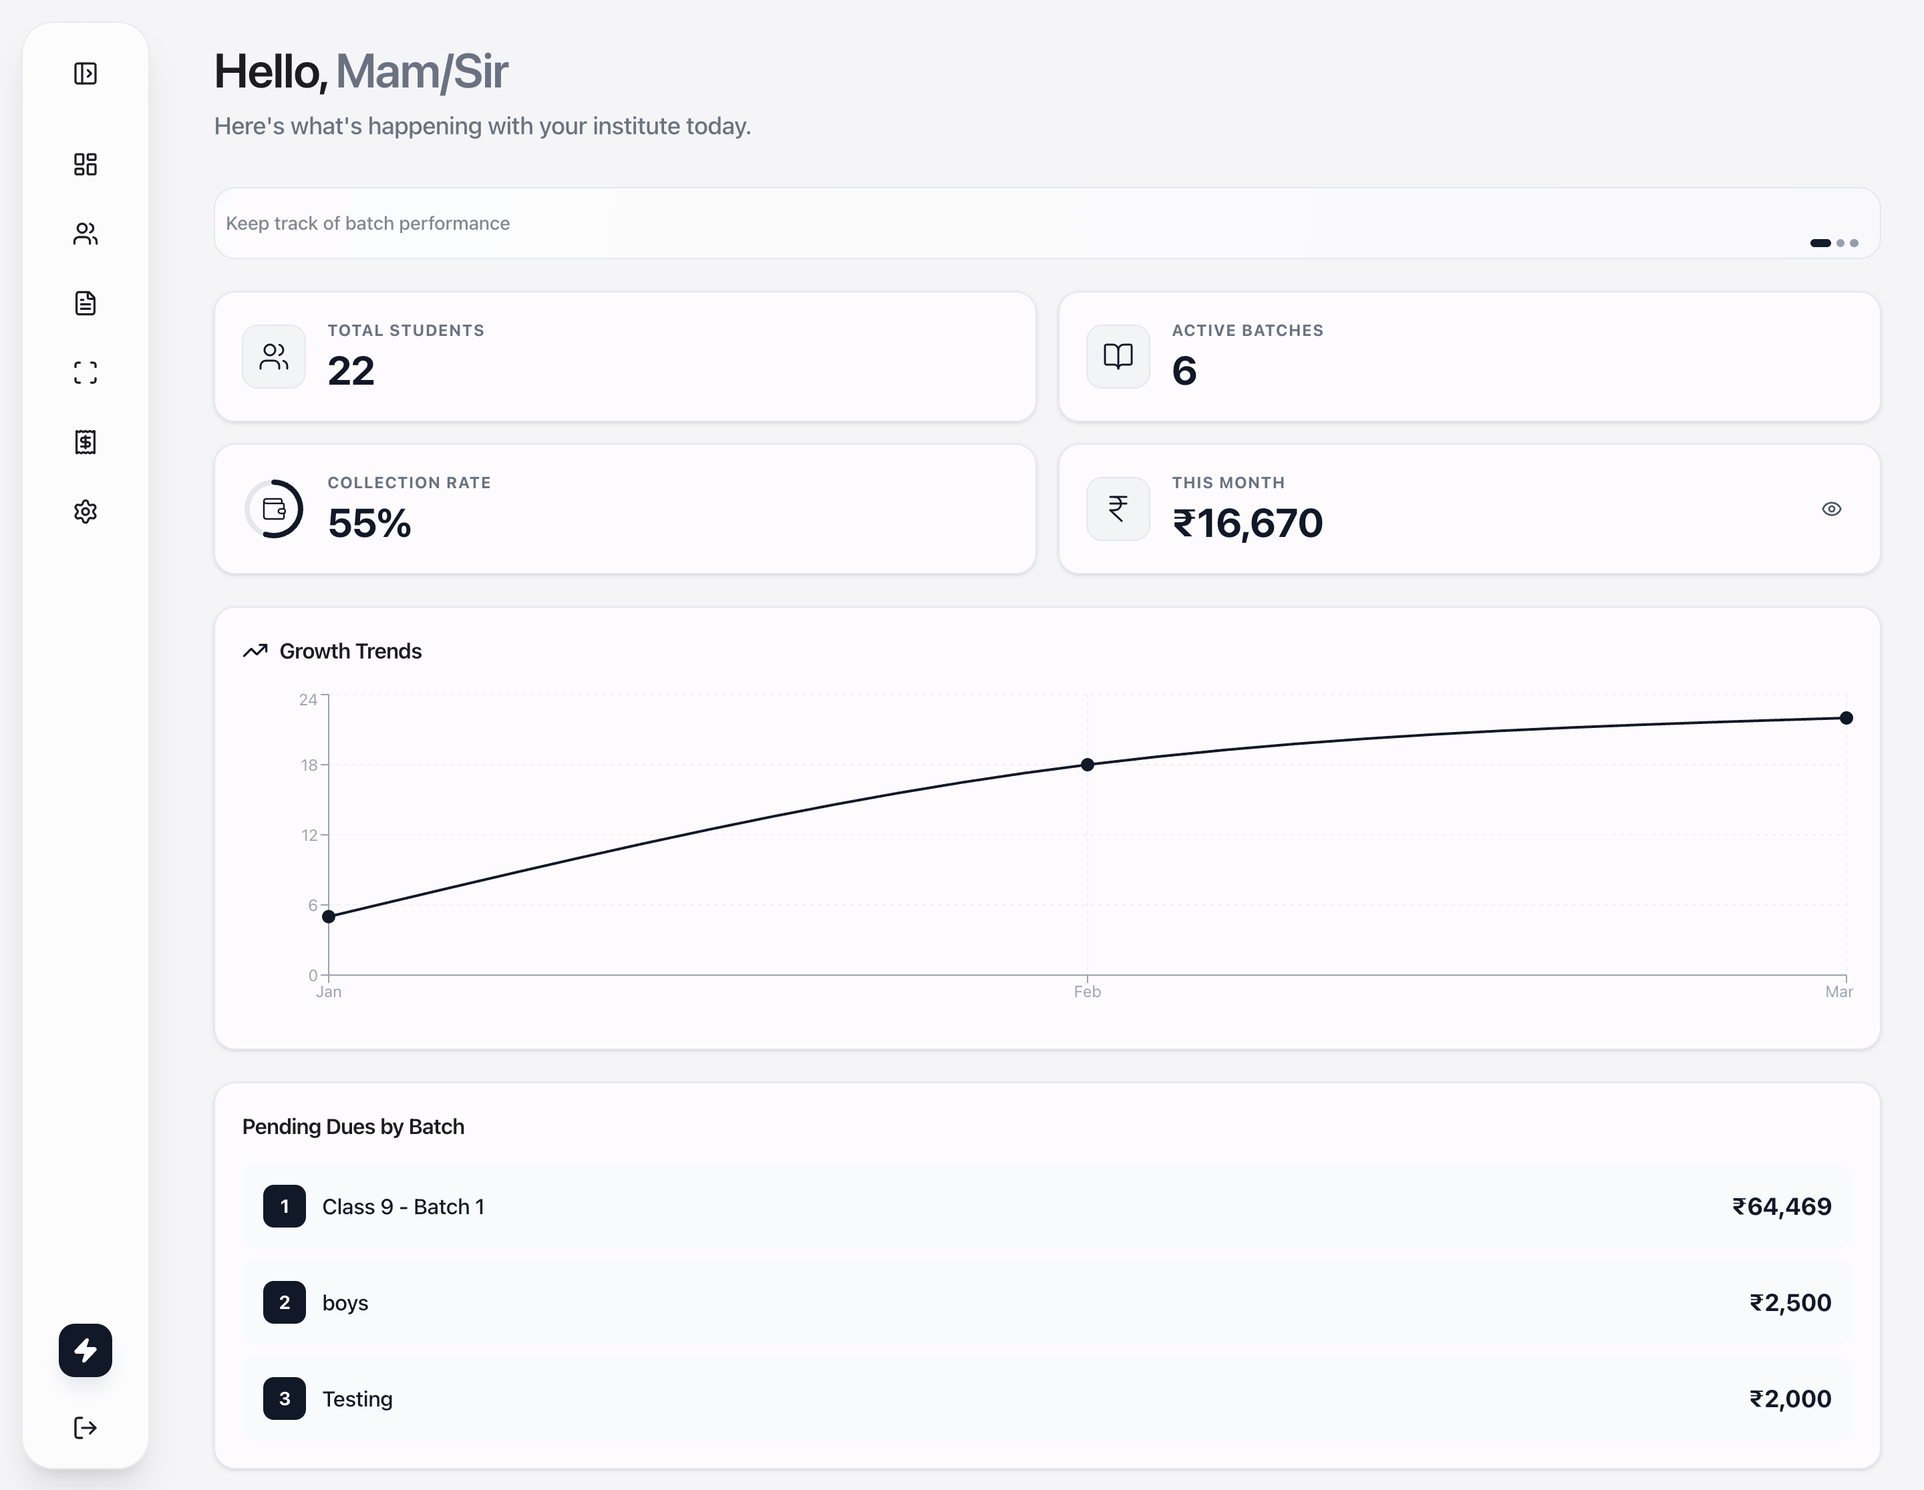
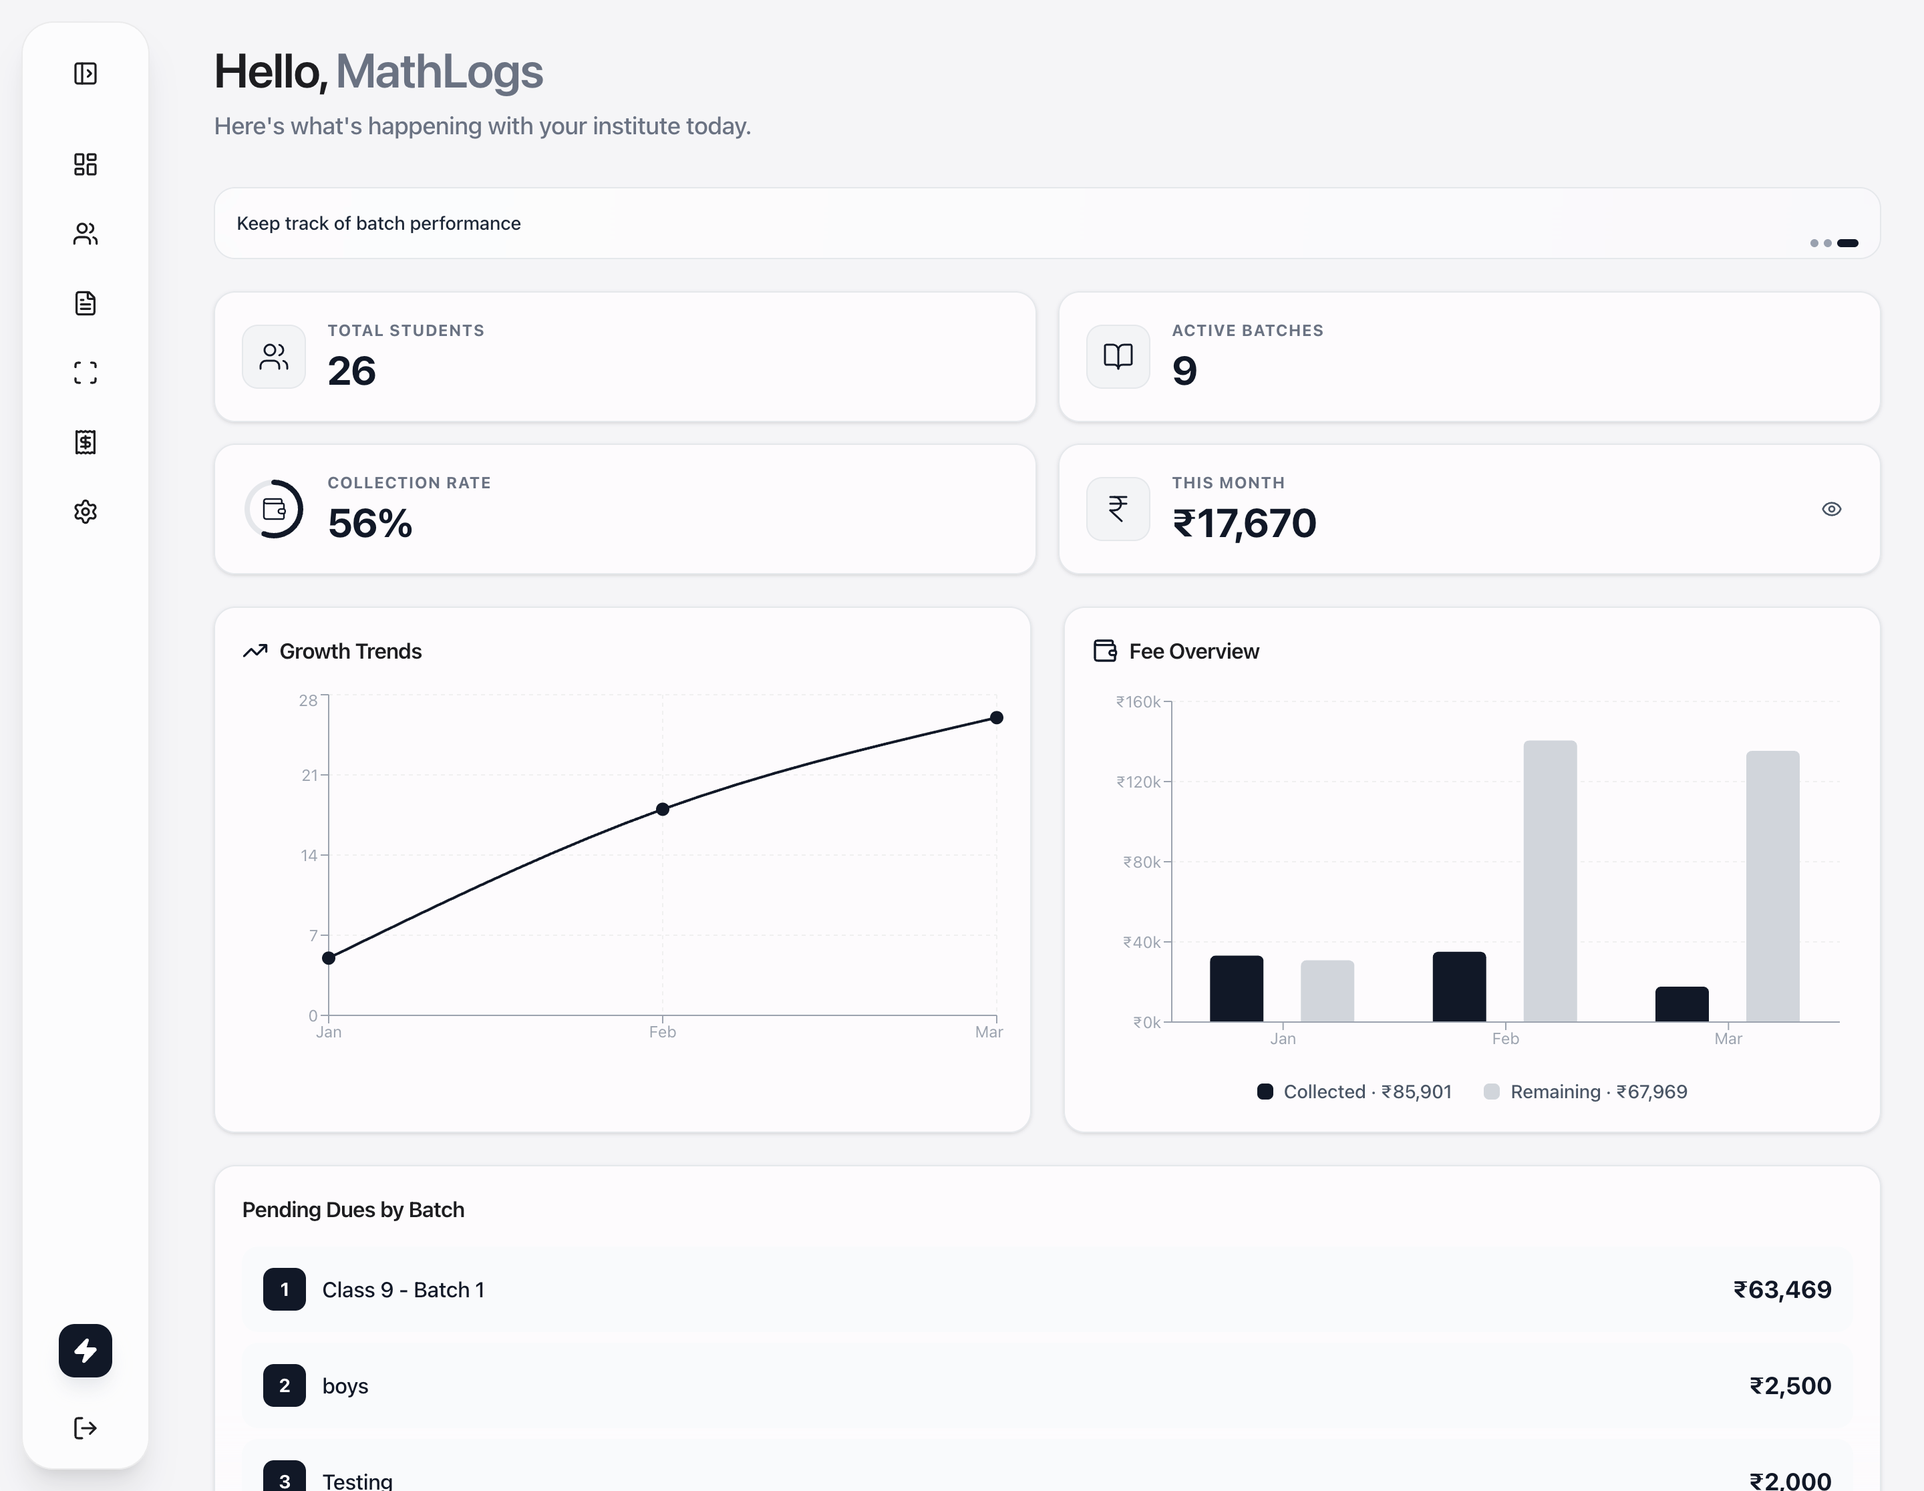
fix: correct modal z-index causing overlap with mobile top bar

diff --git a/client/src/pages/BatchDetails.tsx b/client/src/pages/BatchDetails.tsx
@@ -842,12 +842,12 @@ export default function BatchDetails() {
                     </div>
                 </div>
 
-                <div className="hidden md:block overflow-x-auto overflow-y-hidden rounded-b-[24px] w-full max-w-full">
-                    <table className="w-full text-left border-collapse">
-                        <thead className={cn("bg-app-surface/50 text-app-text-secondary uppercase font-bold tracking-wider backdrop-blur-md", getTextSizeClass('header'))}>
+                <div className="hidden md:block overflow-auto rounded-b-[24px] w-full max-w-full custom-scrollbar" style={{ maxHeight: 'calc(100vh - 220px)' }}>
+                    <table className="w-full text-left border-collapse relative">
+                        <thead className={cn("bg-app-surface text-app-text-secondary uppercase font-bold tracking-wider sticky top-0 z-20 shadow-sm outline outline-1 outline-app-border", getTextSizeClass('header'))}>
                             <tr>
                                 <th
-                                    className={cn("border-b border-app-border cursor-pointer select-none hover:bg-app-surface-hover transition-colors group", getCellPadding())}
+                                    className={cn("bg-app-surface cursor-pointer select-none hover:bg-app-surface-hover transition-colors group", getCellPadding())}
                                     style={{ minWidth: '100px', whiteSpace: 'nowrap' }}
                                     onClick={() => {
                                         setSortConfig(current => {
@@ -866,14 +866,14 @@ export default function BatchDetails() {
                                         )}
                                     </div>
                                 </th>
-                                <th className={cn("border-b border-app-border", getCellPadding())} style={{ minWidth: '180px', whiteSpace: 'nowrap' }}>Student Name</th>
-                                <th className={cn("border-b border-app-border", getCellPadding())} style={{ minWidth: '180px', whiteSpace: 'nowrap' }}>School</th>
-                                <th className={cn("border-b border-app-border", getCellPadding())} style={{ minWidth: '180px', whiteSpace: 'nowrap' }}>Parent Name</th>
-                                <th className={cn("border-b border-app-border", getCellPadding())} style={{ minWidth: '200px', whiteSpace: 'nowrap' }}>Contact</th>
-                                <th className={cn("border-b border-app-border text-center", getCellPadding())} style={{ minWidth: '80px', whiteSpace: 'nowrap' }}>Tests</th>
-                                <th className={cn("border-b border-app-border text-center", getCellPadding())} style={{ minWidth: '80px', whiteSpace: 'nowrap' }}>Avg (10)</th>
+                                <th className={cn("bg-app-surface", getCellPadding())} style={{ minWidth: '180px', whiteSpace: 'nowrap' }}>Student Name</th>
+                                <th className={cn("bg-app-surface", getCellPadding())} style={{ minWidth: '180px', whiteSpace: 'nowrap' }}>School</th>
+                                <th className={cn("bg-app-surface", getCellPadding())} style={{ minWidth: '180px', whiteSpace: 'nowrap' }}>Parent Name</th>
+                                <th className={cn("bg-app-surface", getCellPadding())} style={{ minWidth: '200px', whiteSpace: 'nowrap' }}>Contact</th>
+                                <th className={cn("bg-app-surface text-center", getCellPadding())} style={{ minWidth: '80px', whiteSpace: 'nowrap' }}>Tests</th>
+                                <th className={cn("bg-app-surface text-center", getCellPadding())} style={{ minWidth: '80px', whiteSpace: 'nowrap' }}>Avg (10)</th>
                                 {batch.feeInstallments?.map(inst => (
-                                    <th key={inst.id} className={cn("border-b border-app-border text-center", getCellPadding())} style={{ minWidth: '100px', whiteSpace: 'nowrap' }}>
+                                    <th key={inst.id} className={cn("bg-app-surface text-center", getCellPadding())} style={{ minWidth: '100px', whiteSpace: 'nowrap' }}>
                                         <div className="flex flex-col items-center">
                                             <span>{inst.name}</span>
                                             <span className={cn("text-app-text-tertiary", getTextSizeClass('sub'))}>₹{inst.amount}</span>
@@ -1149,7 +1149,7 @@ export default function BatchDetails() {
             <AnimatePresence>
                 {
                     editingStudent && (
-                        <div className="fixed inset-0 z-50 flex items-center justify-center p-4">
+                        <div className="fixed inset-0 z-[100] flex items-center justify-center p-4">
                             <motion.div
                                 initial={{ opacity: 0 }}
                                 animate={{ opacity: 1 }}
@@ -1285,7 +1285,7 @@ export default function BatchDetails() {
             {/* View Marks Modal */}
             <AnimatePresence>
                 {viewMarks && (
-                    <div className="fixed inset-0 z-50 flex items-center justify-center p-4">
+                    <div className="fixed inset-0 z-[100] flex items-center justify-center p-4">
                         <motion.div
                             initial={{ opacity: 0 }}
                             animate={{ opacity: 1 }}
@@ -1364,7 +1364,7 @@ export default function BatchDetails() {
             <AnimatePresence>
                 {
                     showAddStudent && (
-                        <div className="fixed inset-0 z-50 flex items-center justify-center p-4">
+                        <div className="fixed inset-0 z-[100] flex items-center justify-center p-4">
                             <motion.div
                                 initial={{ opacity: 0 }}
                                 animate={{ opacity: 1 }}
@@ -1488,7 +1488,7 @@ export default function BatchDetails() {
             {/* Delete Student Confirmation Modal */}
             <AnimatePresence>
                 {studentToDelete && (
-                    <div className="fixed inset-0 z-50 flex items-center justify-center p-4">
+                    <div className="fixed inset-0 z-[100] flex items-center justify-center p-4">
                         <motion.div
                             initial={{ opacity: 0 }}
                             animate={{ opacity: 1 }}
@@ -1554,7 +1554,7 @@ export default function BatchDetails() {
             <AnimatePresence>
                 {
                     showEditBatch && (
-                        <div className="fixed inset-0 z-50 flex items-center justify-center p-4">
+                        <div className="fixed inset-0 z-[100] flex items-center justify-center p-4">
                             <motion.div
                                 initial={{ opacity: 0 }}
                                 animate={{ opacity: 1 }}
@@ -1623,7 +1623,7 @@ export default function BatchDetails() {
             <AnimatePresence>
                 {
                     showWhatsAppModal && (
-                        <div className="fixed inset-0 z-50 flex items-center justify-center p-4">
+                        <div className="fixed inset-0 z-[100] flex items-center justify-center p-4">
                             <motion.div
                                 initial={{ opacity: 0 }}
                                 animate={{ opacity: 1 }}
@@ -1676,7 +1676,7 @@ export default function BatchDetails() {
             {/* Manage Installments Modal */}
             <AnimatePresence>
                 {showManageInstallments && (
-                    <div className="fixed inset-0 z-50 flex items-center justify-center p-4">
+                    <div className="fixed inset-0 z-[100] flex items-center justify-center p-4">
                         <motion.div
                             initial={{ opacity: 0 }}
                             animate={{ opacity: 1 }}
@@ -1739,7 +1739,7 @@ export default function BatchDetails() {
             <AnimatePresence>
                 {
                     showAddInstallment && (
-                        <div className="fixed inset-0 z-50 flex items-center justify-center p-4">
+                        <div className="fixed inset-0 z-[100] flex items-center justify-center p-4">
                             <motion.div
                                 initial={{ opacity: 0 }}
                                 animate={{ opacity: 1 }}
@@ -1801,7 +1801,7 @@ export default function BatchDetails() {
             <AnimatePresence>
                 {
                     editingInstallment && (
-                        <div className="fixed inset-0 z-50 flex items-center justify-center p-4">
+                        <div className="fixed inset-0 z-[100] flex items-center justify-center p-4">
                             <motion.div
                                 initial={{ opacity: 0 }}
                                 animate={{ opacity: 1 }}
@@ -1860,7 +1860,7 @@ export default function BatchDetails() {
             {/* Delete Installment Confirmation Modal */}
             <AnimatePresence>
                 {installmentToDelete && (
-                    <div className="fixed inset-0 z-50 flex items-center justify-center p-4">
+                    <div className="fixed inset-0 z-[100] flex items-center justify-center p-4">
                         <motion.div
                             initial={{ opacity: 0 }}
                             animate={{ opacity: 1 }}
@@ -1910,7 +1910,7 @@ export default function BatchDetails() {
             {/* Payment Confirmation Modal (Menu Style) */}
             <AnimatePresence>
                 {paymentModal && (
-                    <div className="fixed inset-0 z-50 flex items-center justify-center p-4">
+                    <div className="fixed inset-0 z-[100] flex items-center justify-center p-4">
                         <motion.div
                             initial={{ opacity: 0 }}
                             animate={{ opacity: 1 }}
@@ -1986,7 +1986,7 @@ export default function BatchDetails() {
             {/* View Payment Details / Revoke Menu */}
             <AnimatePresence>
                 {viewPayment && (
-                    <div className="fixed inset-0 z-50 flex items-center justify-center p-4">
+                    <div className="fixed inset-0 z-[100] flex items-center justify-center p-4">
                         <motion.div
                             initial={{ opacity: 0 }}
                             animate={{ opacity: 1 }}
@@ -2062,7 +2062,7 @@ export default function BatchDetails() {
             {/* Permanent Close Confirmation Modal */}
             <AnimatePresence>
                 {showCloseConfirm && (
-                    <div className="fixed inset-0 z-50 flex items-center justify-center p-4">
+                    <div className="fixed inset-0 z-[100] flex items-center justify-center p-4">
                         <motion.div
                             initial={{ opacity: 0 }}
                             animate={{ opacity: 1 }}
@@ -2105,7 +2105,7 @@ export default function BatchDetails() {
             {/* Delete Confirmation Modal */}
             <AnimatePresence>
                 {showDeleteConfirm && (
-                    <div className="fixed inset-0 z-50 flex items-center justify-center p-4">
+                    <div className="fixed inset-0 z-[100] flex items-center justify-center p-4">
                         <motion.div
                             initial={{ opacity: 0 }}
                             animate={{ opacity: 1 }}
@@ -2159,7 +2159,7 @@ export default function BatchDetails() {
             {/* Sending Progress Modal */}
             <AnimatePresence>
                 {sendingState.isOpen && (
-                    <div className="fixed inset-0 z-50 flex items-center justify-center p-4">
+                    <div className="fixed inset-0 z-[100] flex items-center justify-center p-4">
                         <motion.div
                             initial={{ opacity: 0 }}
                             animate={{ opacity: 1 }}

diff --git a/client/src/pages/TestDetails.tsx b/client/src/pages/TestDetails.tsx
@@ -379,7 +379,7 @@ export default function TestDetails() {
             {/* Edit Modal */}
             <AnimatePresence>
                 {showEdit && (
-                    <div className="fixed inset-0 z-50 flex items-center justify-center p-4">
+                    <div className="fixed inset-0 z-[100] flex items-center justify-center p-4">
                         <motion.div
                             initial={{ opacity: 0 }}
                             animate={{ opacity: 1 }}
@@ -460,7 +460,7 @@ export default function TestDetails() {
             {/* Delete Confirmation Modal */}
             <AnimatePresence>
                 {showDeleteConfirm && (
-                    <div className="fixed inset-0 z-50 flex items-center justify-center p-4">
+                    <div className="fixed inset-0 z-[100] flex items-center justify-center p-4">
                         <motion.div
                             initial={{ opacity: 0 }}
                             animate={{ opacity: 1 }}
@@ -506,7 +506,7 @@ export default function TestDetails() {
             {/* Add Result Modal */}
             <AnimatePresence>
                 {showAddResult && (
-                    <div className="fixed inset-0 z-50 flex items-center justify-center p-4">
+                    <div className="fixed inset-0 z-[100] flex items-center justify-center p-4">
                         <motion.div
                             initial={{ opacity: 0 }}
                             animate={{ opacity: 1 }}
@@ -593,7 +593,7 @@ export default function TestDetails() {
             {/* Email Confirmation Modal */}
             <AnimatePresence>
                 {showEmailConfirm && (
-                    <div className="fixed inset-0 z-50 flex items-center justify-center p-4">
+                    <div className="fixed inset-0 z-[100] flex items-center justify-center p-4">
                         <motion.div
                             initial={{ opacity: 0 }}
                             animate={{ opacity: 1 }}

diff --git a/client/src/pages/Settings.tsx b/client/src/pages/Settings.tsx
@@ -529,7 +529,7 @@ export default function Settings() {
 
                 {/* Delete Confirmation Modal */}
                 {deleteModal?.isOpen && (
-                    <div className="fixed inset-0 z-50 flex items-center justify-center p-4 bg-black/40 backdrop-blur-sm animate-fadeIn">
+                    <div className="fixed inset-0 z-[100] flex items-center justify-center p-4 bg-black/40 backdrop-blur-sm animate-fadeIn">
                         <div className="!bg-white w-full max-w-md rounded-3xl shadow-2xl overflow-hidden border border-gray-100 transform transition-all scale-100">
                             <div className="p-8">
                                 <div className="w-12 h-12 bg-red-100 dark:bg-red-900/30 rounded-2xl flex items-center justify-center mb-6 text-red-600 dark:text-red-400">
@@ -579,7 +579,7 @@ export default function Settings() {
 
                 {/* Switch Confirmation Modal */}
                 {switchModal?.isOpen && (
-                    <div className="fixed inset-0 z-50 flex items-center justify-center p-4 bg-black/40 backdrop-blur-sm animate-fadeIn">
+                    <div className="fixed inset-0 z-[100] flex items-center justify-center p-4 bg-black/40 backdrop-blur-sm animate-fadeIn">
                         <div className="!bg-white w-full max-w-sm rounded-3xl shadow-2xl overflow-hidden border border-gray-100 transform transition-all scale-100">
                             <div className="p-8">
                                 <div className="w-12 h-12 bg-app-bg rounded-2xl flex items-center justify-center mb-6 text-app-text">

diff --git a/client/src/pages/Fees.tsx b/client/src/pages/Fees.tsx
@@ -452,7 +452,7 @@ const Fees: React.FC = () => {
             {/* Payment Modal */}
             <AnimatePresence>
                 {selectedStudent && (
-                    <div className="fixed inset-0 z-50 flex items-center justify-center p-4">
+                    <div className="fixed inset-0 z-[100] flex items-center justify-center p-4">
                         <motion.div
                             initial={{ opacity: 0 }}
                             animate={{ opacity: 1 }}
@@ -543,7 +543,7 @@ const Fees: React.FC = () => {
 
                 {/* Reports Modal */}
                 {showReportsModal && (
-                    <div className="fixed inset-0 z-50 flex items-center justify-center p-4">
+                    <div className="fixed inset-0 z-[100] flex items-center justify-center p-4">
                         <motion.div
                             initial={{ opacity: 0 }}
                             animate={{ opacity: 1 }}
